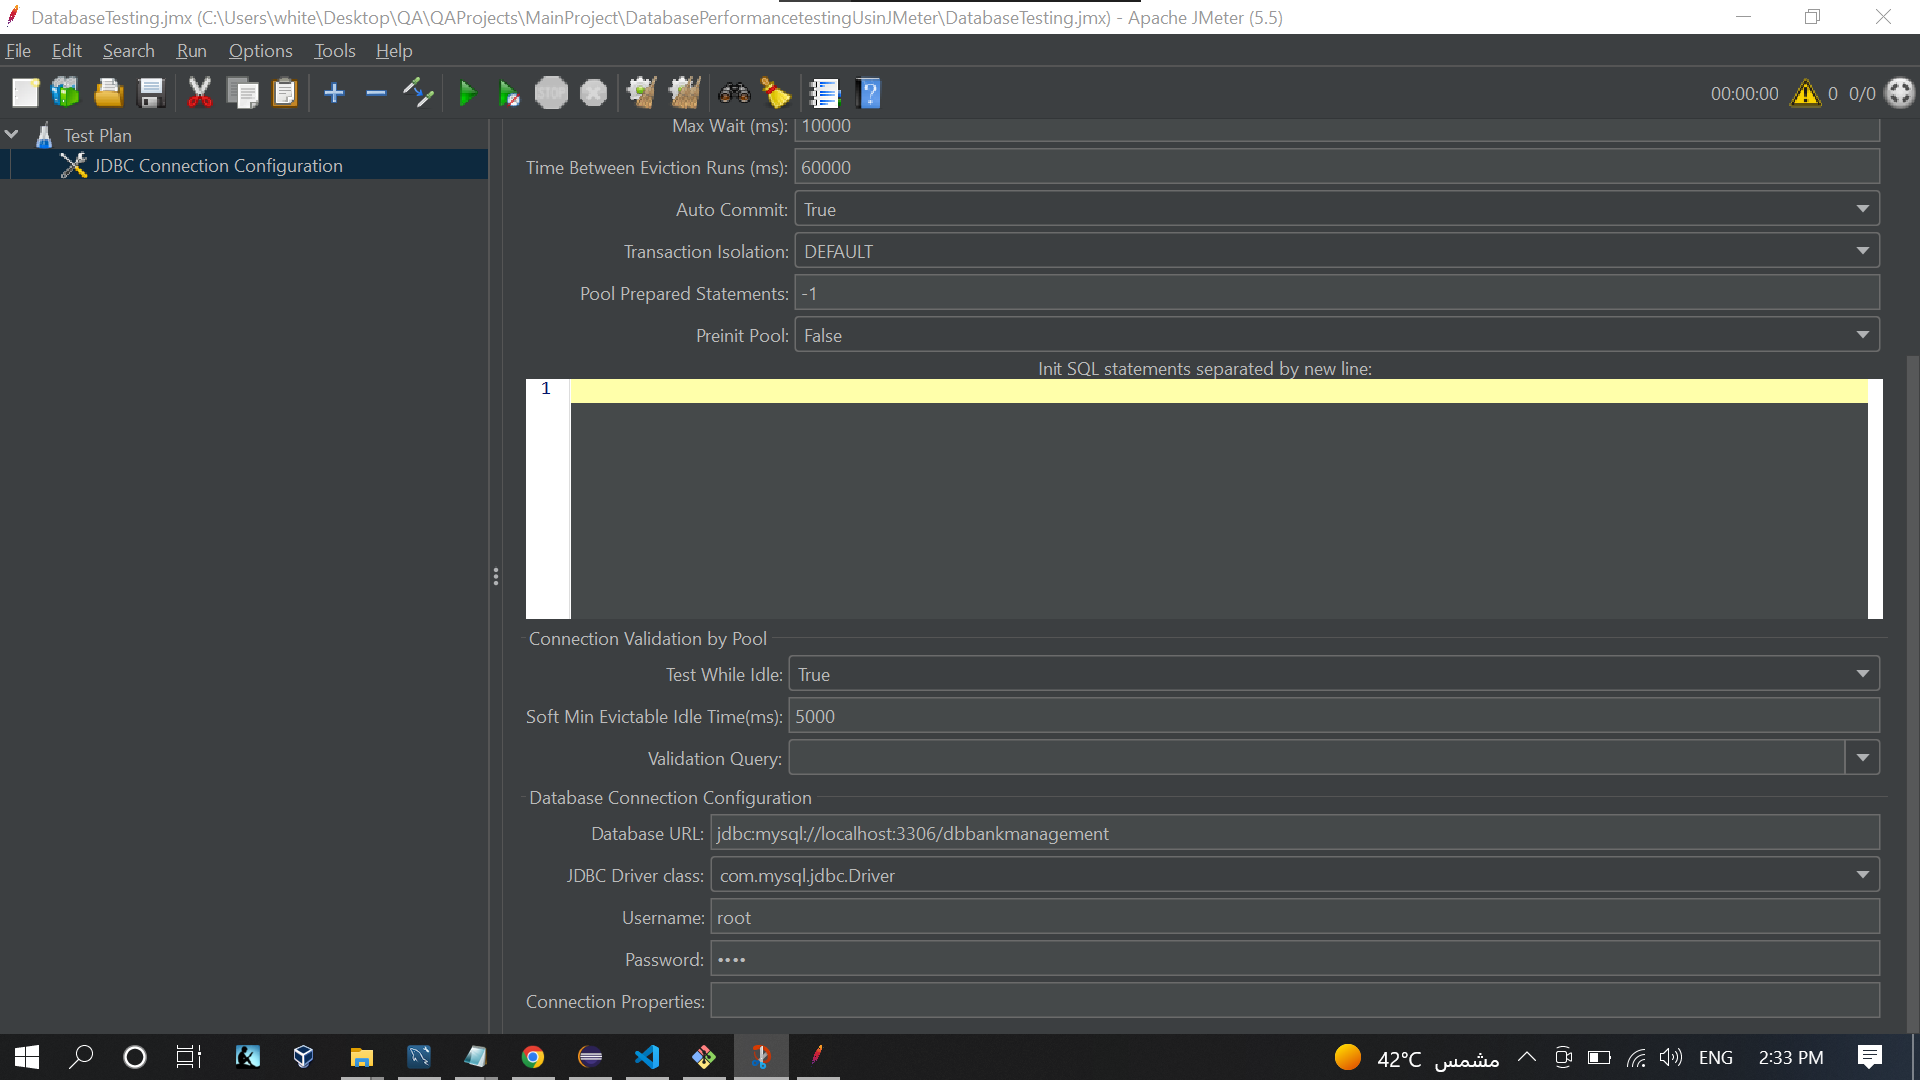
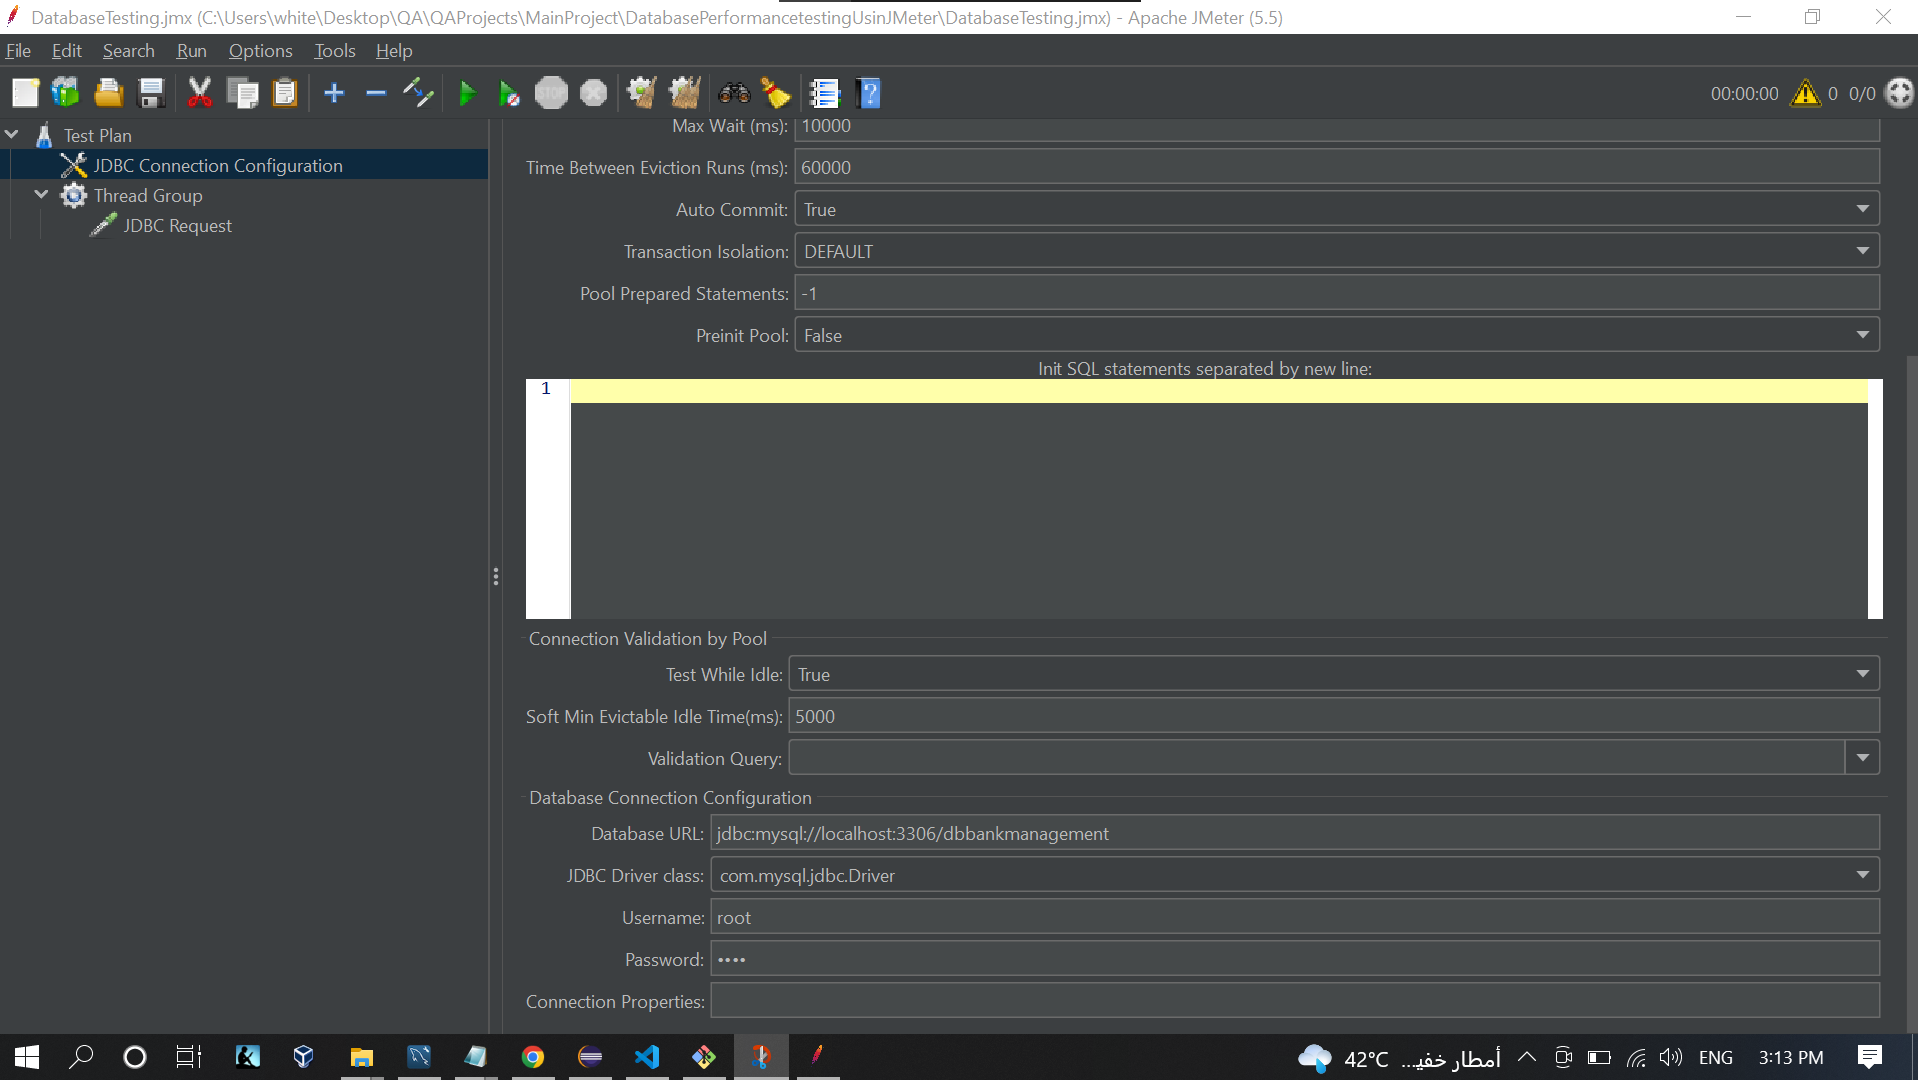
Edit README.md Database Performance Testing

diff --git a/DatabasePerformancetestingUsinJMeter/README.md b/DatabasePerformancetestingUsinJMeter/README.md
@@ -45,7 +45,18 @@
 <img src='img/img5.png' /></br>
 
 ### Step 2: Write SQL Query
+- Add Sampler Request
+- Right Click on `Thread Group` > `Add` > `Sampler` > `JDBC Request`
+- Put the variable name: `dBVariableName`
+- Choose the `Query Type` and Write the Query you want in the `Query TextBox`.
+- Add Listener, Right Click on `Thread Group` > `Add` > `Listener` > `View Results Tree` and `View Results in Table`.
+- Add more `JDBC Request`, Based on Project Requirements.
+
+<img src='img/img7.png' /></br>
+<img src='img/img6.png' /></br>
 
 
 ### Step 3: Execute the Test
+- Start the Execution.
+
 
